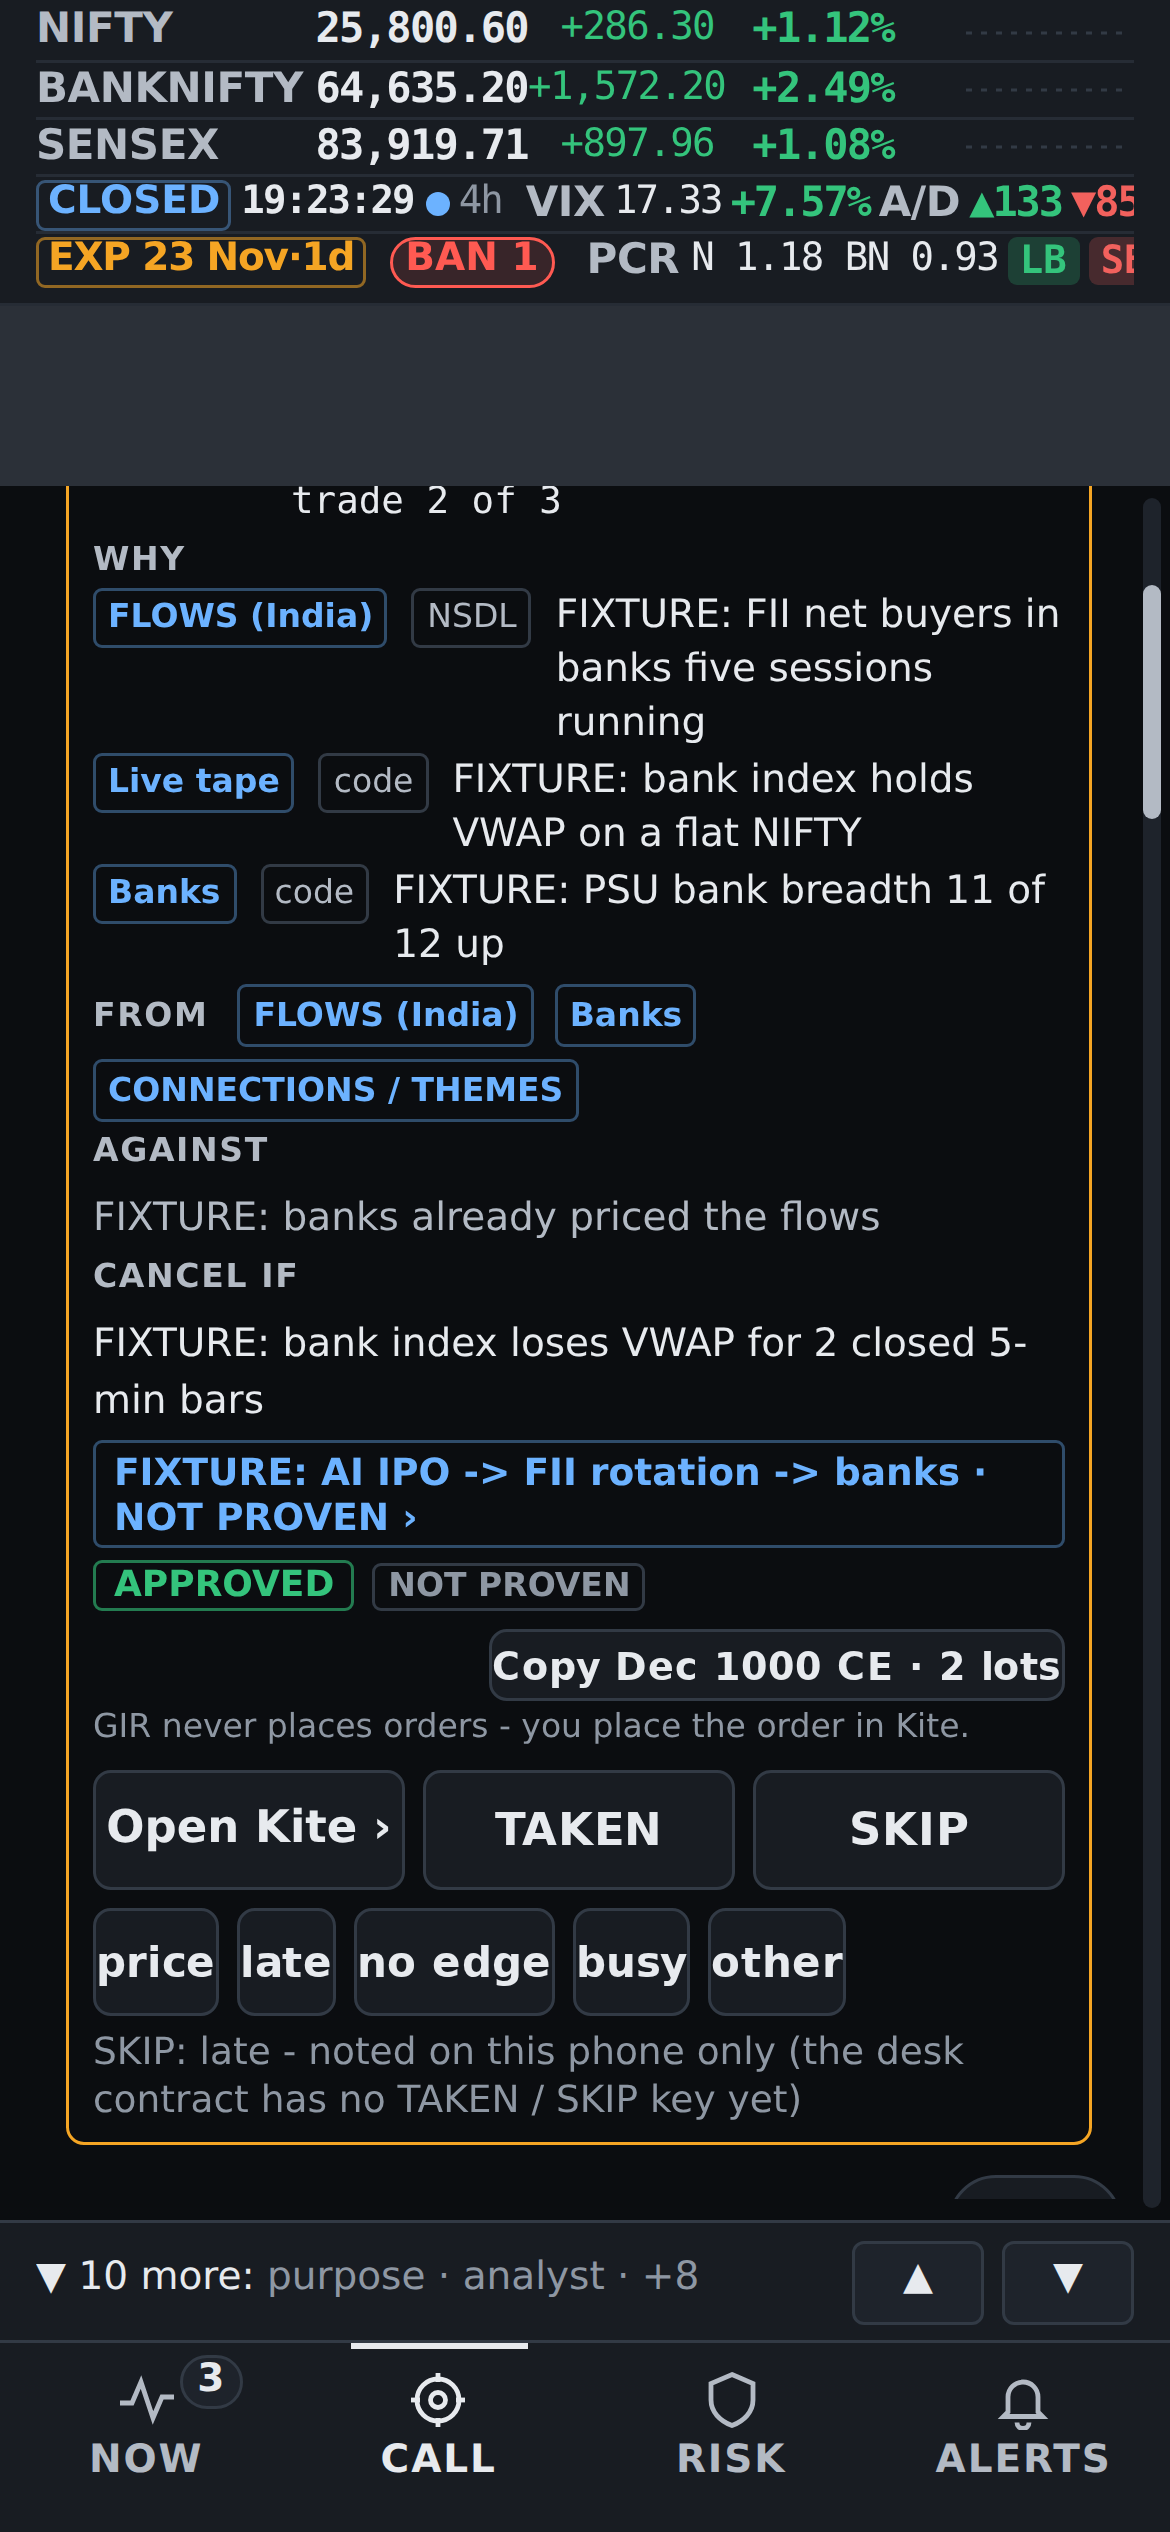
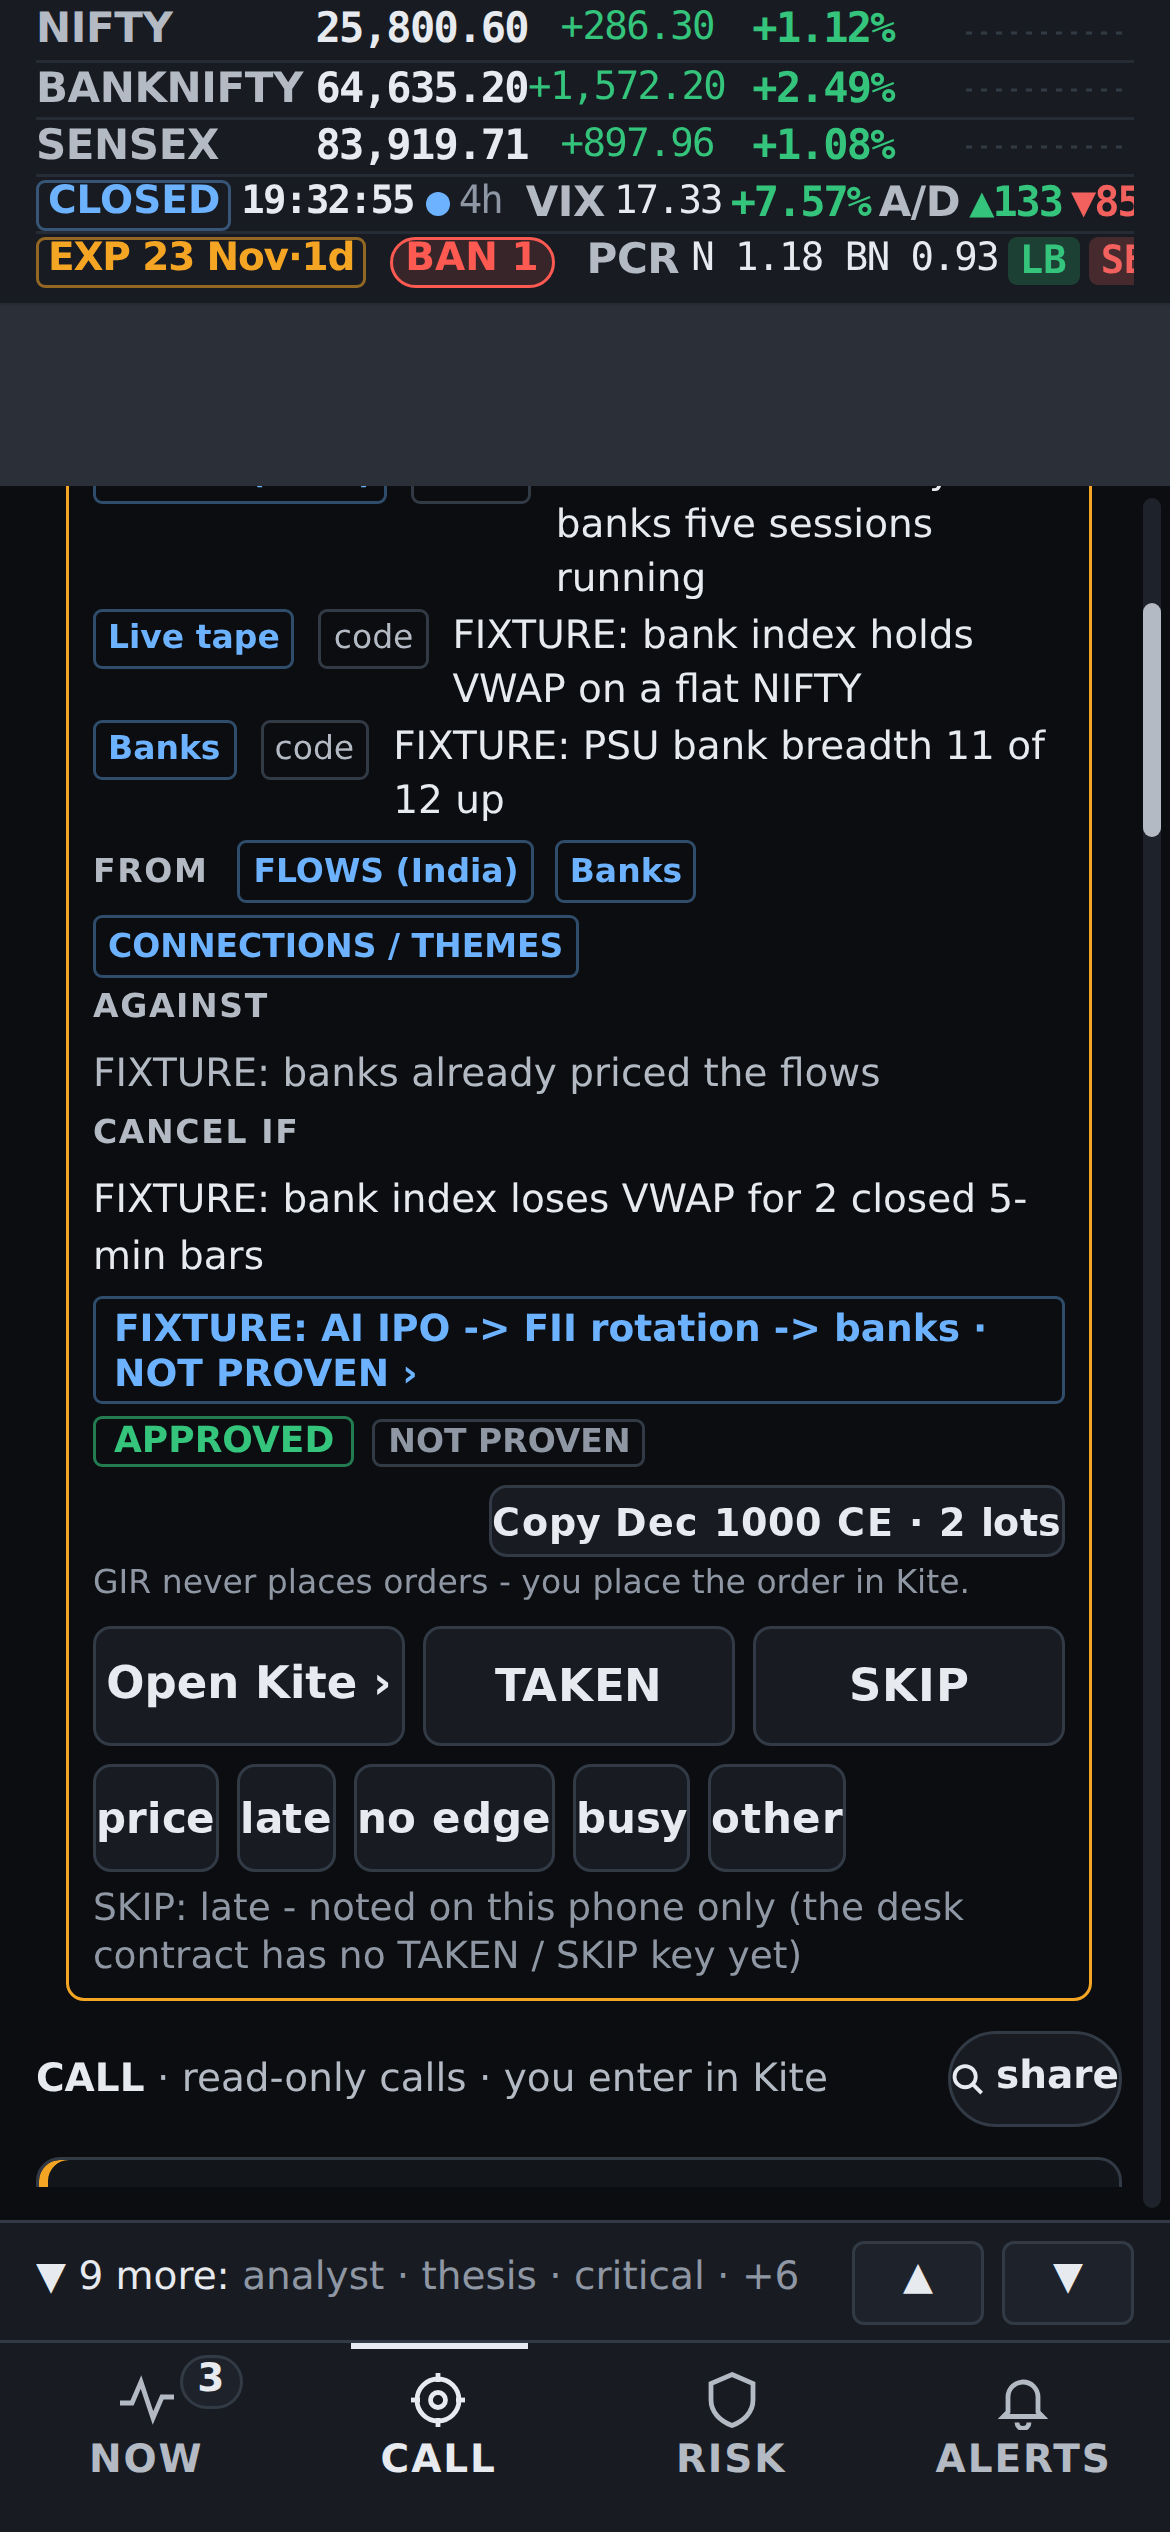
monday: all 48 desk prompts landed + loaded; pages follow DESK_WEB_CHANGES (no Desk Room); news reader inside the $5

diff --git a/intraday_patches/monday/STATUS.md b/intraday_patches/monday/STATUS.md
@@ -2,7 +2,7 @@
 
 One row per checklist item (MONDAY_READY.md). Proof files are in this folder. An item without proof is NOT DONE.
 
-Last update: 19:32 IST
+Last update: 19:34 IST
 
 | item | status | note | proof | time |
 |---|---|---|---|---|
@@ -80,3 +80,4 @@ Last update: 19:32 IST
 - 19:25 - gir-v2desk INSTALLED + running (the trader's yes; 15 tests passed first; started 19:23:39): code seats 32 / 33 writing cards to the DESK BOARD, J11 meter $0 of $5 (budget day Fri 15:40 -> Mon 15:40), Telegram OFF (WOULD SEND), login 0.06 s. Desk prompts synced from the branch: R1-R6 + seats 1-8 (14 files); head (H), CONTRACTS.md and seats 9-40 not landed yet - the head shows 'head analyst not running' and no AI money is spent until they land and pass a shadow run. Stub rehearsal of 18 / 19 / 20 Nov running (no AI); the $15 Opus rehearsal waits for the prompts.
 - 19:29 - first DESK SHADOW (the 14 seats with prompts, tonight's news, own folder, ~$0.25): 13 of 14 PASS (readers R1 / R3 / R4 / R5 / R6 and seats 1-8 made valid cards); R2 wires reader timed out after 40 s - fix sent; file DESK_shadow_20261120-1359.md (its title time is UTC by mistake - IST fix sent). Seats switch on only after the Saturday / Sunday --apply shadows.
 - 19:32 - shadow fixes in (gir-v2desk restarted 19:32, 16 tests): R2 wires reader now 45 s / 90 s with batches of 6 and a half-batch retry, then UNREAD with the reason; every time shown in IST; empty reader cards confirmed as 'nothing worth a card' (routine filings, no F&O link) and now logged with counts + reasons; routine filings stripped before the AI read (saves money). Measured: readers $0.001-0.003 a batch, global seats $0.027-0.035 a call.
+- 19:34 - ALL desk prompts landed (48 files: H head analyst, CONTRACTS.md, seats 1-40, readers R1-R6) and copied to the loader; seats switch on only after the desk's reviewer pass + a shadow. Desk 19:30: everything AI counts in the $5 incl. the v2 news reader, whose AI goes OFF once R1-R6 run live (one config flag). Desk 20:15: NO Desk Room page - DESK_WEB_CHANGES.md replaces DESK_TEAM section 6; the desk speaks through the existing F1 GO NOW card, desk-trade GIR row, Morning band + 19:45 ideas table, F8 Analyst tabs and the Ask box (Monday minimum items 1-4 + 8, then 5, 6; 7 drops first) - pages builder redirected.
